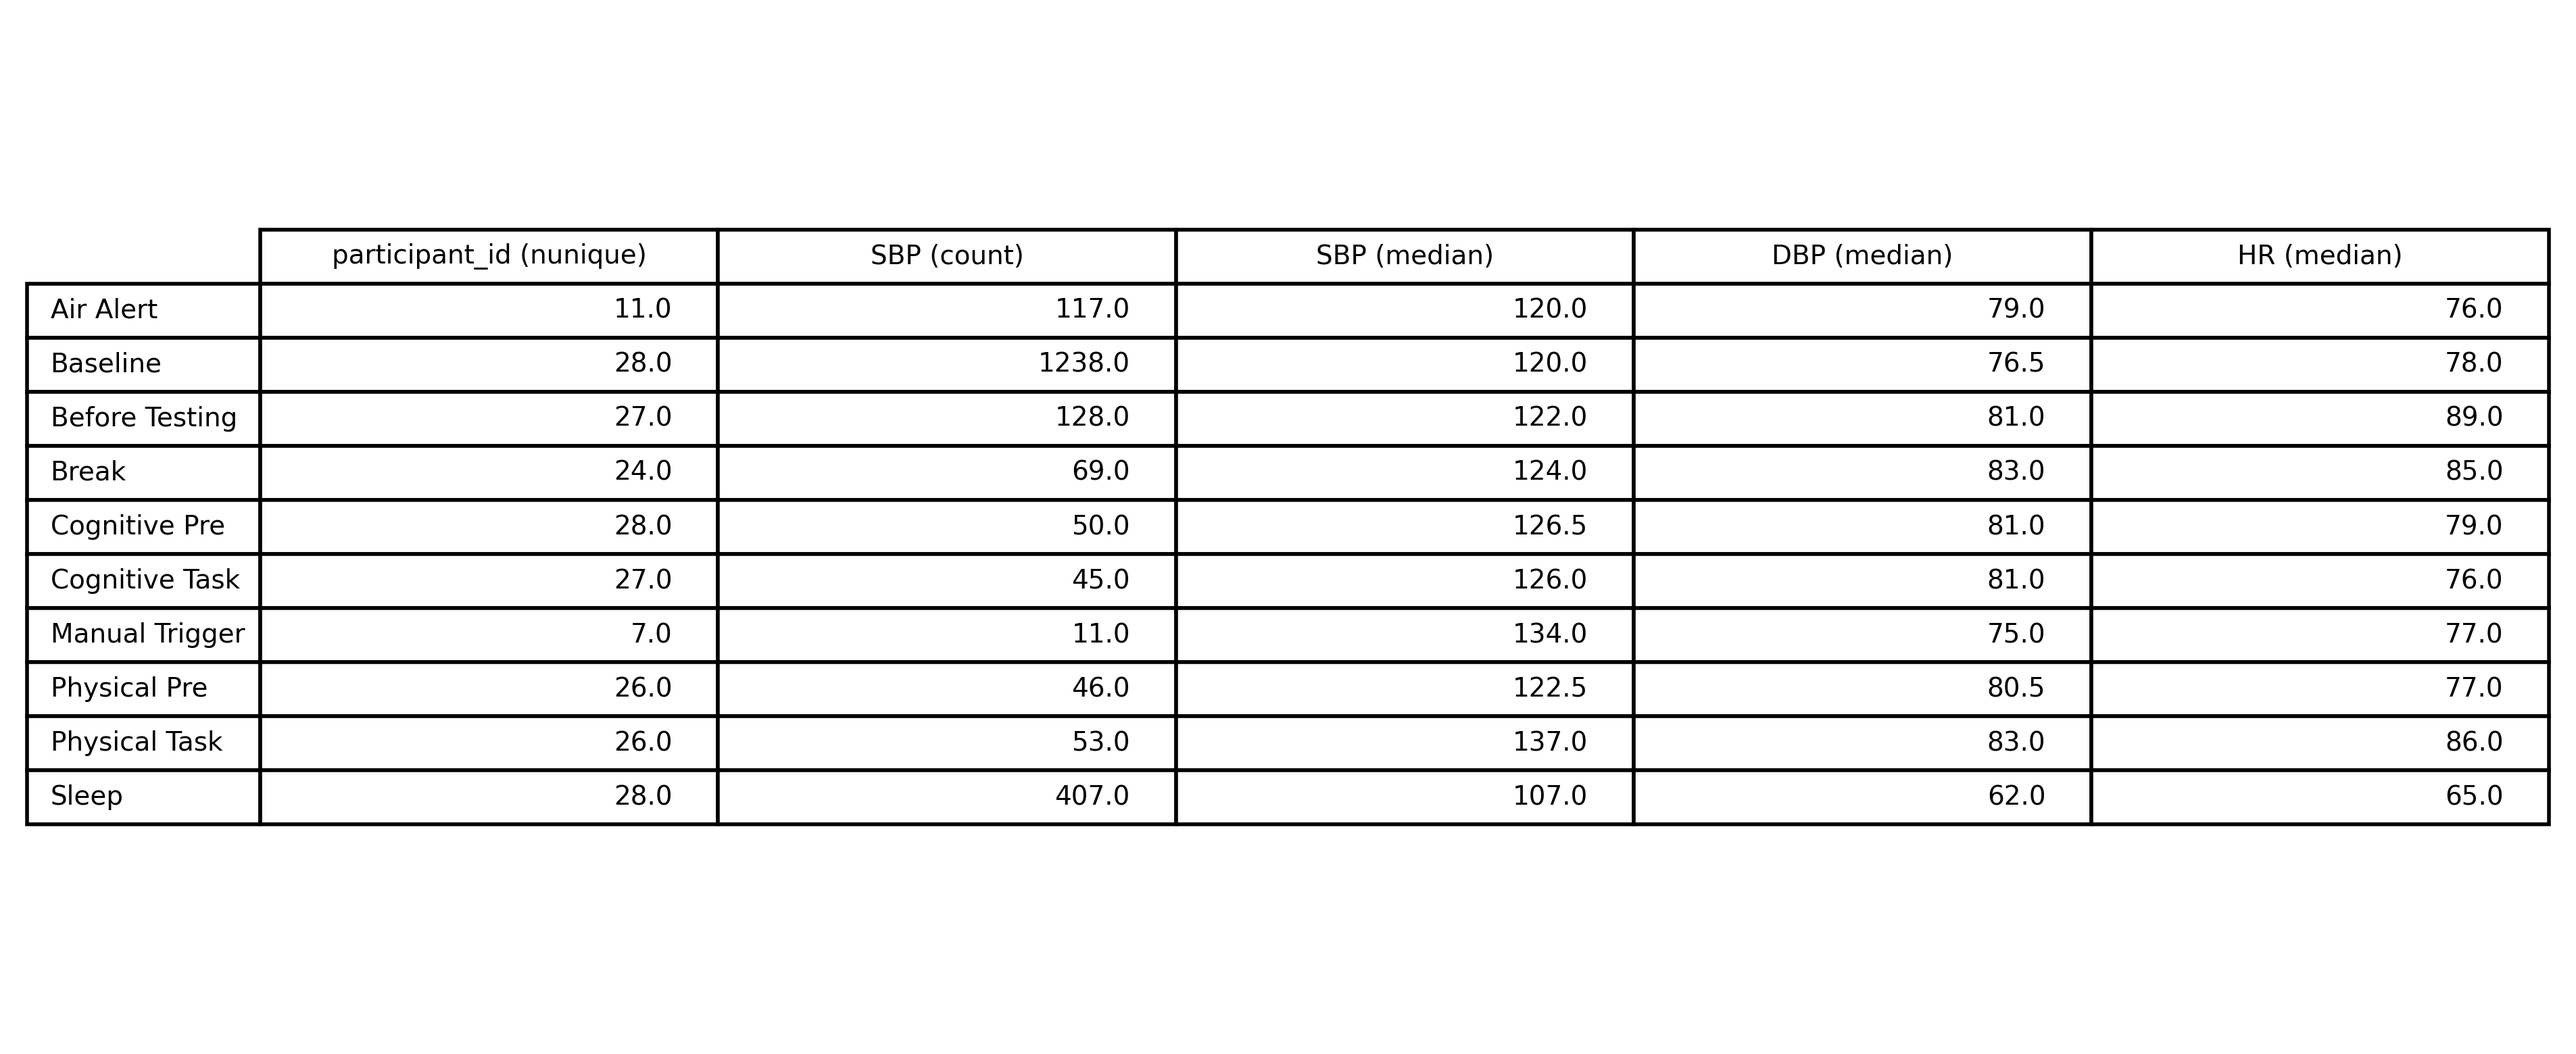
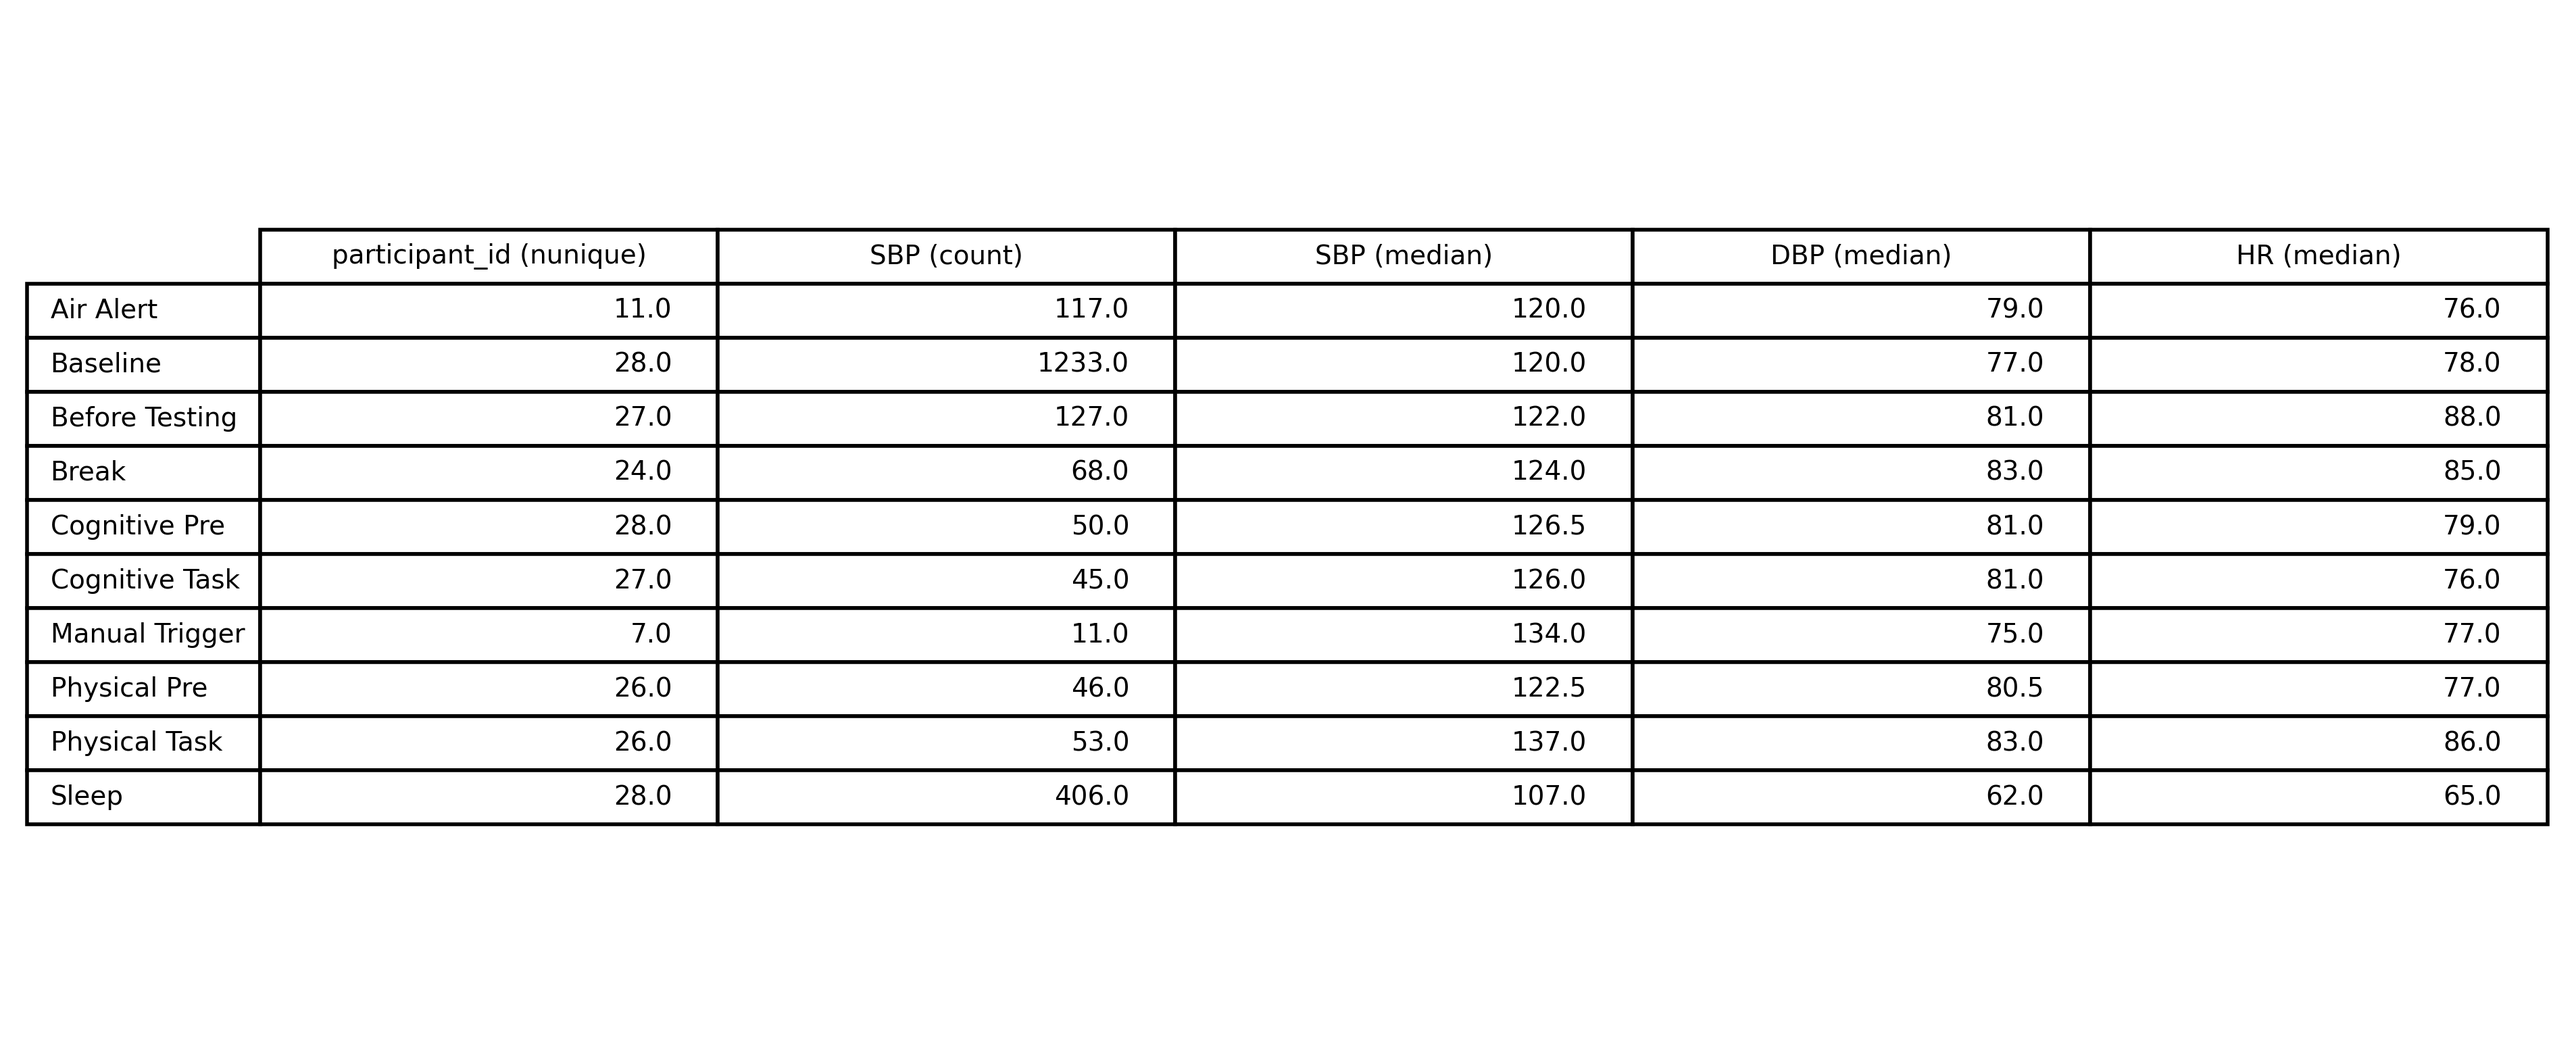
Add Brandon-focused article summary with per-model CV-MAE export
SubjectResult now exports per-model cross-validated MAE for every
candidate (Brandon, Lasso, RFE, OLS(SBP), OLS(SBP,HR)) plus the list of
features Brandon actually selected for each subject. run_pipeline uses
these fields to write a new CohortAnalyzer.generate_brandon_summary
report (brandon_article_summary.txt + brandon_feature_counts.csv) that
powers the manuscript's claims about Brandon's paired advantage and its
feature-selection profile.

The summary runs Wilcoxon signed-rank tests on paired per-subject
CV-MAE deltas against each baseline model, breaks out Brandon-winner
profiles, and tabulates how often each candidate feature is retained
overall vs. among Brandon winners.

Regenerated results/* reflect a re-run of the pipeline under the new
sanitization step plus these additional exports.

Changed region(s): [[0.4061, 0.7385, 0.4374, 0.7692]]

diff --git a/run_pipeline.py b/run_pipeline.py
@@ -13,12 +13,13 @@ Usage:
 """
 
 import warnings
+from collections import Counter
 from pathlib import Path
 
 import matplotlib.pyplot as plt
 import numpy as np
 import pandas as pd
-from scipy.stats import mannwhitneyu
+from scipy.stats import mannwhitneyu, wilcoxon
 
 from abpm_hemodynamic_coupling.config import Columns, Config
 from abpm_hemodynamic_coupling.data_processing import DataLoader
@@ -85,6 +86,13 @@ class SubjectAnalyzer:
             train_n=len(df_base),
             dbp_winner=dbp_result['winner'],
             dbp_ref_mae=dbp_result['ref_mae'],
+            dbp_cv_mae_brandon=dbp_result["cv_scores"]["Brandon"],
+            dbp_cv_mae_lasso=dbp_result["cv_scores"]["Lasso"],
+            dbp_cv_mae_rfe=dbp_result["cv_scores"]["RFE"],
+            dbp_cv_mae_ols_sbp=dbp_result["cv_scores"]["OLS(SBP)"],
+            dbp_cv_mae_ols_sbp_hr=dbp_result["cv_scores"]["OLS(SBP,HR)"],
+            dbp_brandon_features=dbp_result["brandon_features"],
+            dbp_brandon_feature_count=dbp_result["brandon_feature_count"],
             dbp_cognitive_task=dbp_result.get('cognitive_task'),
             dbp_physical_task=dbp_result.get('physical_task'),
             dbp_air_alert=dbp_result.get('air_alert')
@@ -106,14 +114,21 @@ class SubjectAnalyzer:
         
         winner = cv_perf.get_winner()
         ref_mae = cv_perf.get_best_score()
-        
+        cv_scores = cv_perf.to_dict()
+
         # Train final model
         model, idxs, scaler = self.trainer.train(X_raw, y, winner)
-        
+        _, brandon_idxs, _ = self.trainer.train(X_raw, y, "Brandon")
+        feature_names = feature_extractor.get_feature_names()
+        brandon_features = [feature_names[idx] for idx in brandon_idxs]
+
         # Evaluate on different conditions
         result = {
             'winner': winner,
-            'ref_mae': ref_mae
+            'ref_mae': ref_mae,
+            'cv_scores': cv_scores,
+            'brandon_features': ", ".join(brandon_features),
+            'brandon_feature_count': len(brandon_features),
         }
         
         for cond_name, label in [
@@ -173,6 +188,159 @@ class CohortAnalyzer:
             
             # Subgroup analysis
             self._write_subgroup_analysis(f, res_df)
+
+    def generate_brandon_summary(
+        self,
+        res_df: pd.DataFrame,
+        output_file: Path,
+        feature_counts_output: Path,
+    ) -> None:
+        """Generate article-oriented summary for Brandon-focused reporting."""
+        feature_counts = self._build_brandon_feature_counts(res_df)
+        feature_counts.to_csv(feature_counts_output, index=False)
+
+        with open(output_file, "w") as f:
+            f.write("BRANDON ARTICLE SUMMARY\n")
+            f.write("=" * 40 + "\n\n")
+
+            self._write_model_comparison(f, res_df)
+            self._write_winner_profile(f, res_df)
+            self._write_brandon_feature_counts(f, feature_counts)
+
+    def _write_model_comparison(self, f, res_df: pd.DataFrame) -> None:
+        """Compare Brandon against each competing model using paired CV-MAE."""
+        f.write("Paired CV-MAE comparison (lower is better)\n")
+        f.write("-" * 40 + "\n")
+
+        comparisons = [
+            ("DBP_CV_MAE_Brandon", "DBP_CV_MAE_OLS_SBP", "OLS(SBP)"),
+            ("DBP_CV_MAE_Brandon", "DBP_CV_MAE_OLS_SBP_HR", "OLS(SBP,HR)"),
+            ("DBP_CV_MAE_Brandon", "DBP_CV_MAE_Lasso", "Lasso"),
+            ("DBP_CV_MAE_Brandon", "DBP_CV_MAE_RFE", "RFE"),
+        ]
+
+        for brandon_col, other_col, label in comparisons:
+            valid = res_df[[brandon_col, other_col]].dropna()
+            if valid.empty:
+                continue
+
+            diff = valid[brandon_col] - valid[other_col]
+            try:
+                stat, p_value = wilcoxon(diff)
+            except ValueError:
+                stat, p_value = np.nan, 1.0
+
+            better = int((diff < 0).sum())
+            worse = int((diff > 0).sum())
+            ties = int((diff == 0).sum())
+
+            f.write(f"Brandon vs {label} (N={len(valid)})\n")
+            f.write(
+                f"  Brandon median CV-MAE: {valid[brandon_col].median():.2f} "
+                f"[{valid[brandon_col].quantile(0.25):.2f}, {valid[brandon_col].quantile(0.75):.2f}] mmHg\n"
+            )
+            f.write(
+                f"  {label} median CV-MAE: {valid[other_col].median():.2f} "
+                f"[{valid[other_col].quantile(0.25):.2f}, {valid[other_col].quantile(0.75):.2f}] mmHg\n"
+            )
+            f.write(
+                f"  Median paired difference (Brandon - {label}): {diff.median():.2f} mmHg\n"
+            )
+            f.write(
+                f"  Win/Loss/Tie by subject: {better}/{worse}/{ties}; "
+                f"Wilcoxon W={stat:.1f}, p={p_value:.4f}\n\n"
+            )
+
+    def _write_winner_profile(self, f, res_df: pd.DataFrame) -> None:
+        """Summarize how often Brandon wins model selection."""
+        valid = res_df[res_df["DBP_Winner"] != "NA"].copy()
+        if valid.empty:
+            return
+
+        counts = valid["DBP_Winner"].value_counts()
+        brandon_winners = valid[valid["DBP_Winner"] == "Brandon"]
+
+        f.write("Model winner profile\n")
+        f.write("-" * 40 + "\n")
+        for model_name, count in counts.items():
+            f.write(f"{model_name}: {count}/{len(valid)} ({100 * count / len(valid):.1f}%)\n")
+
+        f.write("\n")
+        if brandon_winners.empty:
+            f.write("Brandon winners: none\n\n")
+            return
+
+        f.write(f"Brandon winners: {len(brandon_winners)}/{len(valid)}\n")
+        f.write(
+            f"  Baseline ref MAE among Brandon winners: {brandon_winners['DBP_Ref_MAE'].median():.2f} "
+            f"[{brandon_winners['DBP_Ref_MAE'].quantile(0.25):.2f}, {brandon_winners['DBP_Ref_MAE'].quantile(0.75):.2f}] mmHg\n"
+        )
+        cognitive = brandon_winners[brandon_winners["DBP_Cognitive Task_N"] > 0]
+        if not cognitive.empty:
+            f.write(
+                f"  Cognitive DeltaBias among Brandon winners: {cognitive['DBP_Cognitive Task_DeltaBias'].median():.2f} "
+                f"[{cognitive['DBP_Cognitive Task_DeltaBias'].quantile(0.25):.2f}, {cognitive['DBP_Cognitive Task_DeltaBias'].quantile(0.75):.2f}] mmHg\n"
+            )
+            f.write(
+                f"  Cognitive Anomaly among Brandon winners: {cognitive['DBP_Cognitive Task_Anomaly'].median():.2f} "
+                f"[{cognitive['DBP_Cognitive Task_Anomaly'].quantile(0.25):.2f}, {cognitive['DBP_Cognitive Task_Anomaly'].quantile(0.75):.2f}] %\n"
+            )
+        f.write("\n")
+
+    def _build_brandon_feature_counts(self, res_df: pd.DataFrame) -> pd.DataFrame:
+        """Count how often Brandon selects each feature across subjects."""
+        overall_counter: Counter[str] = Counter()
+        winner_counter: Counter[str] = Counter()
+
+        for _, row in res_df.iterrows():
+            raw_features = row.get("DBP_Brandon_Features", "")
+            if not isinstance(raw_features, str) or not raw_features.strip():
+                continue
+
+            features = [feature.strip() for feature in raw_features.split(",") if feature.strip()]
+            overall_counter.update(features)
+            if row.get("DBP_Winner") == "Brandon":
+                winner_counter.update(features)
+
+        ordered_features = [
+            "SBP",
+            "HR",
+            "1/SBP",
+            "1/HR",
+            "SBP*HR",
+            "1/(SBP*HR)",
+        ]
+
+        rows = []
+        n_subjects = int((res_df["DBP_Brandon_Feature_Count"] > 0).sum())
+        n_winners = int((res_df["DBP_Winner"] == "Brandon").sum())
+        for feature in ordered_features:
+            overall = overall_counter.get(feature, 0)
+            winners = winner_counter.get(feature, 0)
+            rows.append(
+                {
+                    "feature": feature,
+                    "selected_n_all_subjects": overall,
+                    "selected_pct_all_subjects": 100 * overall / n_subjects if n_subjects else np.nan,
+                    "selected_n_brandon_winners": winners,
+                    "selected_pct_brandon_winners": 100 * winners / n_winners if n_winners else np.nan,
+                }
+            )
+
+        return pd.DataFrame(rows)
+
+    def _write_brandon_feature_counts(self, f, feature_counts: pd.DataFrame) -> None:
+        """Write feature-count summary in plain text."""
+        f.write("Brandon feature selection frequency\n")
+        f.write("-" * 40 + "\n")
+        for _, row in feature_counts.iterrows():
+            f.write(
+                f"{row['feature']}: all subjects {int(row['selected_n_all_subjects'])} "
+                f"({row['selected_pct_all_subjects']:.1f}%), "
+                f"Brandon winners {int(row['selected_n_brandon_winners'])} "
+                f"({row['selected_pct_brandon_winners']:.1f}%)\n"
+            )
+        f.write("\n")
     
     def _write_baseline_stats(self, f, res_df):
         """Write baseline performance statistics."""
@@ -351,6 +519,12 @@ def main():
         config.get_results_path(config.SUMMARY_OUTPUT)
     )
     print(f"Summary saved: {config.get_results_path(config.SUMMARY_OUTPUT)}")
+    cohort_analyzer.generate_brandon_summary(
+        res_df,
+        config.get_results_path(config.BRANDON_SUMMARY_OUTPUT),
+        config.get_results_path(config.BRANDON_FEATURE_COUNTS_OUTPUT),
+    )
+    print(f"Brandon summary saved: {config.get_results_path(config.BRANDON_SUMMARY_OUTPUT)}")
     
     # TODO: Add correlation analysis if aggregated data available
     # TODO: Add classifier training if classifier data available

diff --git a/tests/test_brandon_summary.py b/tests/test_brandon_summary.py
@@ -1,0 +1,59 @@
+import pandas as pd
+
+from abpm_hemodynamic_coupling.config import Config
+from abpm_hemodynamic_coupling.models import SubjectResult
+from run_pipeline import CohortAnalyzer
+
+
+def test_subject_result_exports_brandon_metadata() -> None:
+    result = SubjectResult(
+        participant_id=1,
+        train_n=20,
+        dbp_winner="Brandon",
+        dbp_ref_mae=5.5,
+        dbp_cv_mae_brandon=5.5,
+        dbp_cv_mae_lasso=5.8,
+        dbp_cv_mae_rfe=5.9,
+        dbp_cv_mae_ols_sbp=6.1,
+        dbp_cv_mae_ols_sbp_hr=5.7,
+        dbp_brandon_features="SBP, HR",
+        dbp_brandon_feature_count=2,
+    )
+
+    exported = result.to_dict()
+
+    assert exported["DBP_CV_MAE_Brandon"] == 5.5
+    assert exported["DBP_Brandon_Features"] == "SBP, HR"
+    assert exported["DBP_Brandon_Feature_Count"] == 2
+
+
+def test_build_brandon_feature_counts_aggregates_all_and_winner_subsets() -> None:
+    analyzer = CohortAnalyzer(Config())
+    res_df = pd.DataFrame(
+        [
+            {
+                "DBP_Winner": "Brandon",
+                "DBP_Brandon_Features": "SBP, HR",
+                "DBP_Brandon_Feature_Count": 2,
+            },
+            {
+                "DBP_Winner": "OLS(SBP)",
+                "DBP_Brandon_Features": "SBP, 1/SBP",
+                "DBP_Brandon_Feature_Count": 2,
+            },
+            {
+                "DBP_Winner": "Brandon",
+                "DBP_Brandon_Features": "HR",
+                "DBP_Brandon_Feature_Count": 1,
+            },
+        ]
+    )
+
+    counts = analyzer._build_brandon_feature_counts(res_df)
+    counts = counts.set_index("feature")
+
+    assert counts.loc["SBP", "selected_n_all_subjects"] == 2
+    assert counts.loc["SBP", "selected_n_brandon_winners"] == 1
+    assert counts.loc["HR", "selected_n_all_subjects"] == 2
+    assert counts.loc["HR", "selected_n_brandon_winners"] == 2
+    assert counts.loc["SBP*HR", "selected_pct_brandon_winners"] == 0.0

diff --git a/src/abpm_hemodynamic_coupling/models.py b/src/abpm_hemodynamic_coupling/models.py
@@ -36,6 +36,16 @@ class ModelPerformance:
         """Get the score of the best-performing model."""
         return min([self.brandon, self.lasso, self.rfe, self.ols_sbp, self.ols_sbp_hr])
 
+    def to_dict(self) -> Dict[str, float]:
+        """Return model scores in a stable export order."""
+        return {
+            "Brandon": self.brandon,
+            "Lasso": self.lasso,
+            "RFE": self.rfe,
+            "OLS(SBP)": self.ols_sbp,
+            "OLS(SBP,HR)": self.ols_sbp_hr,
+        }
+
 
 @dataclass
 class ConditionMetrics:
@@ -57,6 +67,13 @@ class SubjectResult:
     # DBP modeling
     dbp_winner: str
     dbp_ref_mae: float
+    dbp_cv_mae_brandon: float = np.nan
+    dbp_cv_mae_lasso: float = np.nan
+    dbp_cv_mae_rfe: float = np.nan
+    dbp_cv_mae_ols_sbp: float = np.nan
+    dbp_cv_mae_ols_sbp_hr: float = np.nan
+    dbp_brandon_features: str = ""
+    dbp_brandon_feature_count: int = 0
     dbp_cognitive_task: Optional[ConditionMetrics] = None
     dbp_physical_task: Optional[ConditionMetrics] = None
     dbp_air_alert: Optional[ConditionMetrics] = None
@@ -68,6 +85,13 @@ class SubjectResult:
             "Train_N": self.train_n,
             "DBP_Winner": self.dbp_winner,
             "DBP_Ref_MAE": self.dbp_ref_mae,
+            "DBP_CV_MAE_Brandon": self.dbp_cv_mae_brandon,
+            "DBP_CV_MAE_Lasso": self.dbp_cv_mae_lasso,
+            "DBP_CV_MAE_RFE": self.dbp_cv_mae_rfe,
+            "DBP_CV_MAE_OLS_SBP": self.dbp_cv_mae_ols_sbp,
+            "DBP_CV_MAE_OLS_SBP_HR": self.dbp_cv_mae_ols_sbp_hr,
+            "DBP_Brandon_Features": self.dbp_brandon_features,
+            "DBP_Brandon_Feature_Count": self.dbp_brandon_feature_count,
         }
         
         # Add DBP condition metrics

diff --git a/src/abpm_hemodynamic_coupling/config.py b/src/abpm_hemodynamic_coupling/config.py
@@ -59,6 +59,8 @@ class Config:
     # Output file names
     SUBJECT_METRICS_OUTPUT: str = "per_subject_metrics.csv"
     SUMMARY_OUTPUT: str = "results_summary.txt"
+    BRANDON_SUMMARY_OUTPUT: str = "brandon_article_summary.txt"
+    BRANDON_FEATURE_COUNTS_OUTPUT: str = "brandon_feature_counts.csv"
     CROSS_CONDITION_OUTPUT: str = "cross_condition_analysis.txt"
     PAIRWISE_OUTPUT: str = "pairwise_tests.txt"
     DEMOGRAPHICS_FIGURE: str = "demographics.png"
